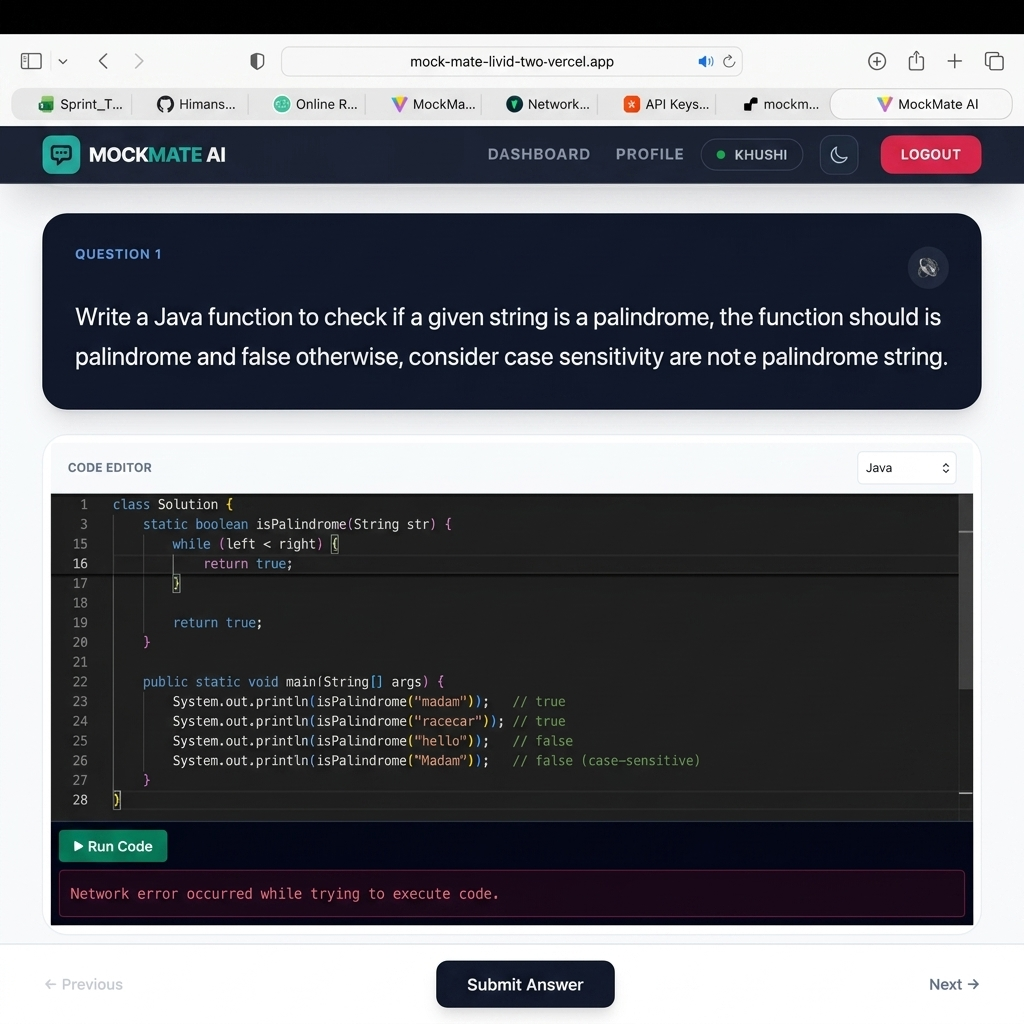
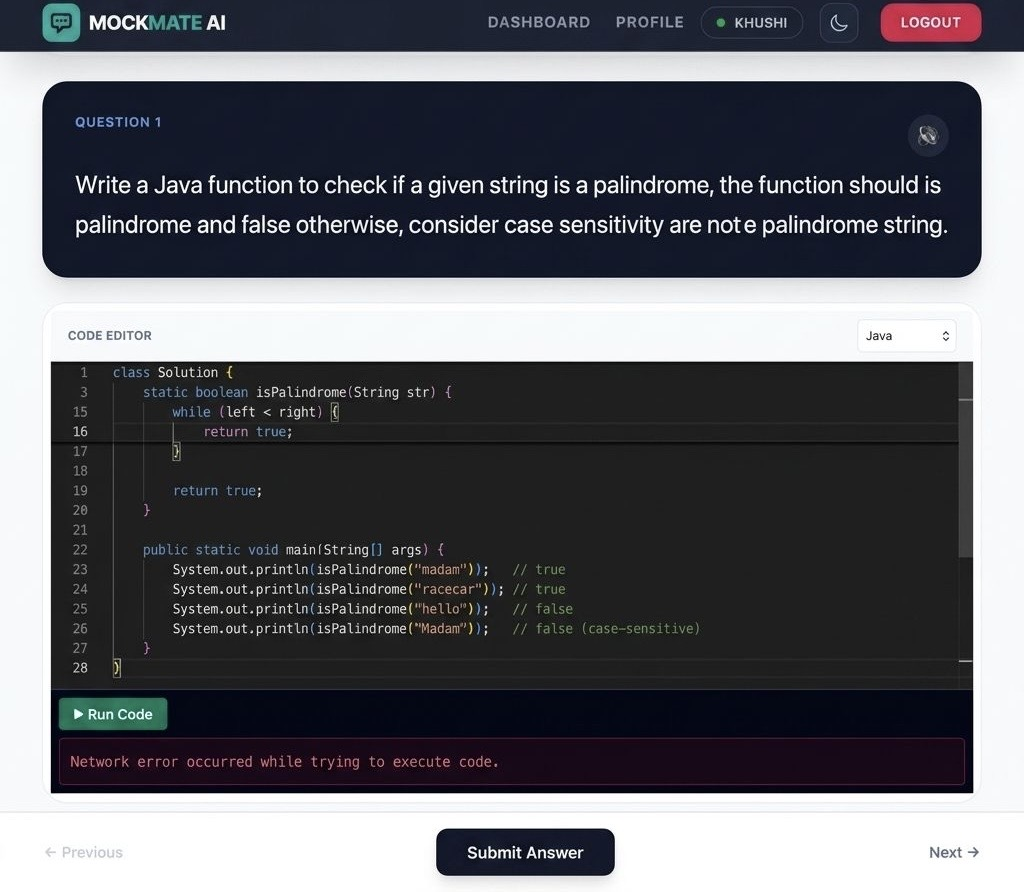
Update screenshots with user-uploaded clean versions

diff --git a/README.md b/README.md
@@ -4,6 +4,12 @@ MockMate AI is a full-stack, enterprise-grade application designed to simulate r
 
 ## Screenshots
 
+### Login & Registration
+![Login Interface](assets/screenshots/SignIn.png)
+
+### Candidate Dashboard
+![Candidate Dashboard](assets/screenshots/Dashboard.png)
+
 ### Coding Interview Workspace
 ![Interview Workspace](assets/screenshots/interview-interface.png)
 